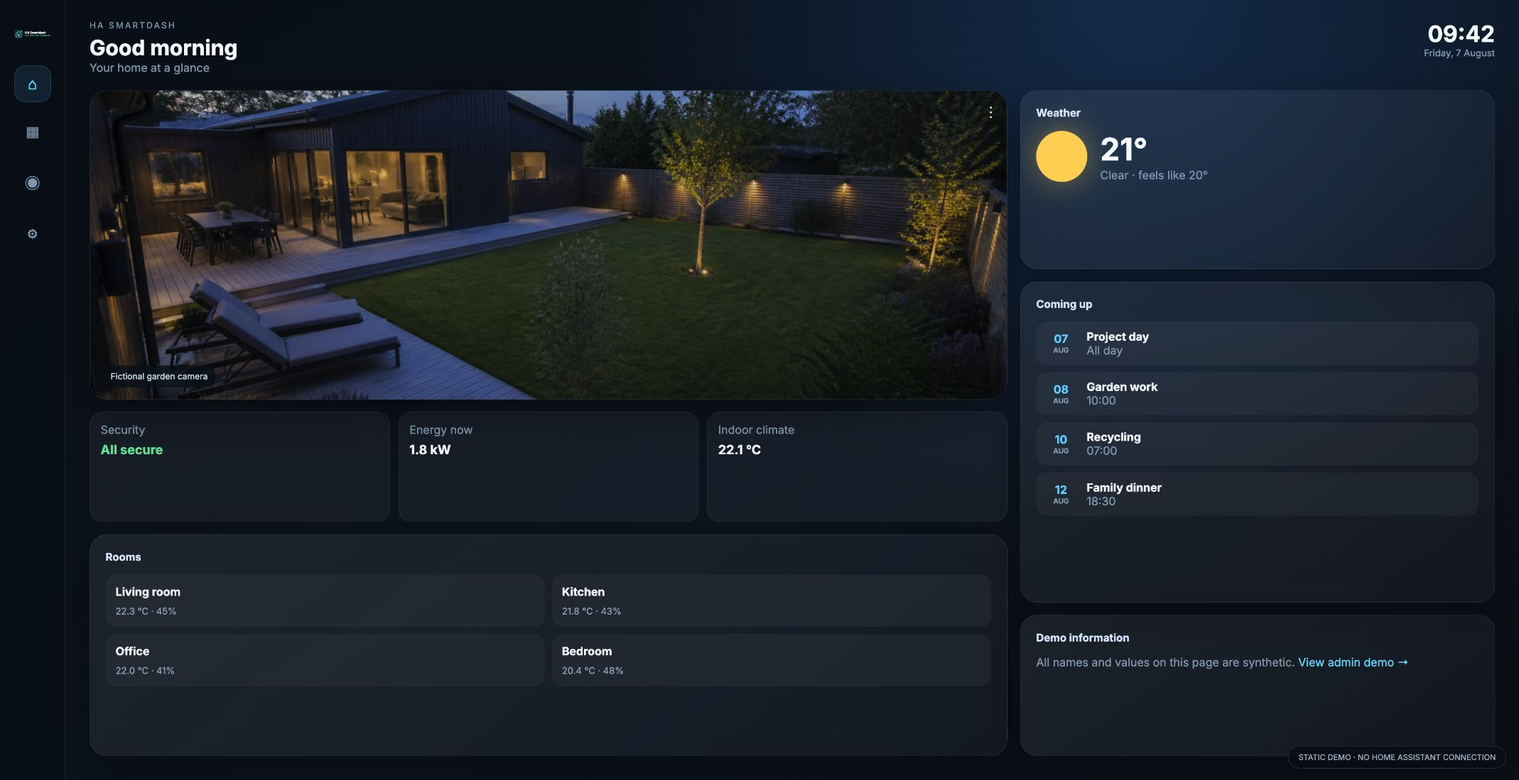
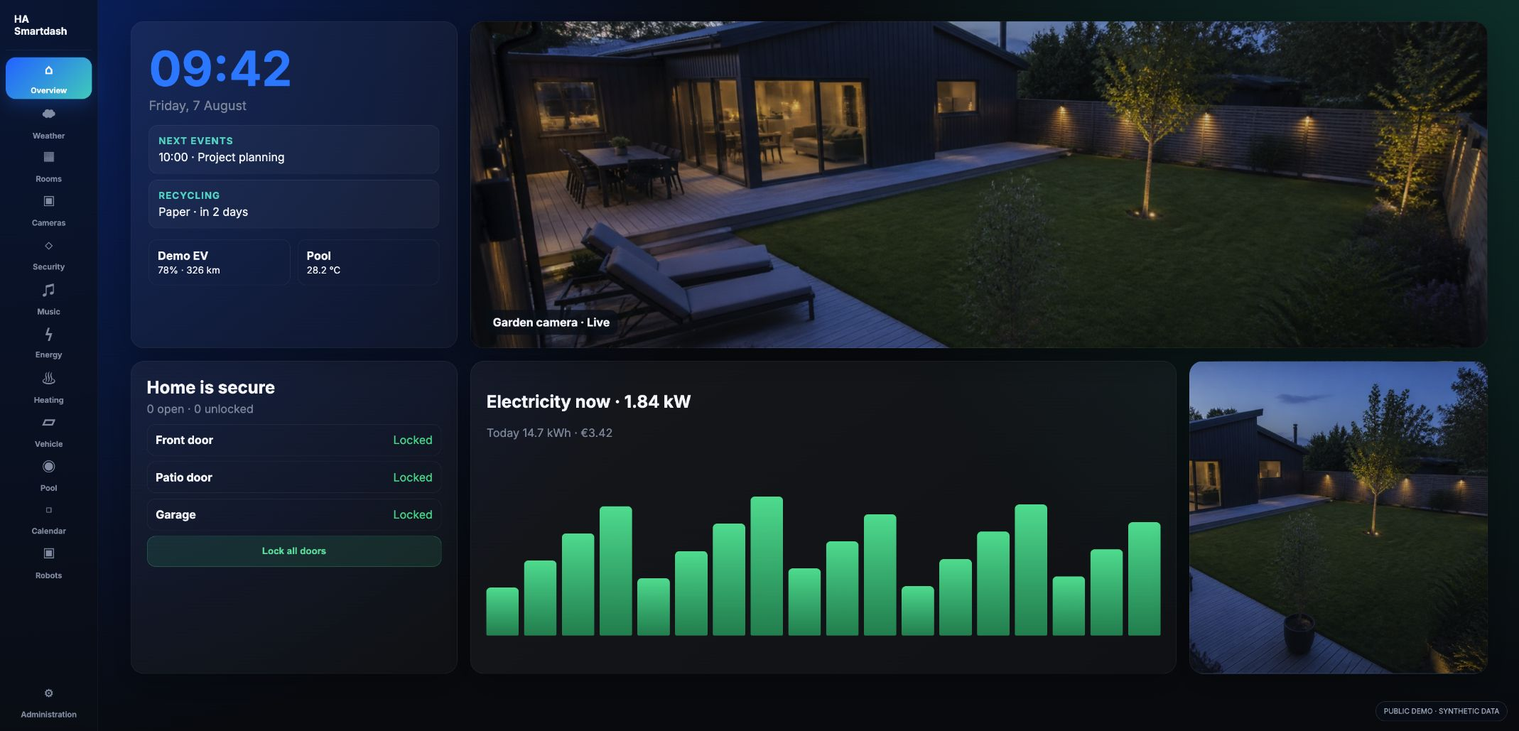
Add SMB backup downloads and production-style demos

diff --git a/demo/showcase.css b/demo/showcase.css
@@ -1,0 +1,1 @@
+@font-face{font-family:Inter;src:url(../fonts/Inter-Variable.woff2)}:root{--panel:#11151fcf;--line:#ffffff12;--muted:#8e98aa;--cyan:#32d8d0;--blue:#2882ff;--green:#42dc9d;--yellow:#ffc64f;--red:#ff4f7b}*{box-sizing:border-box}body{margin:0;background:radial-gradient(circle at 100% 0,#063b35 0,transparent 42%),radial-gradient(circle at 0 0,#082d72 0,transparent 45%),#070a10;color:#f6f8fc;font-family:Inter,sans-serif;min-height:100vh}.app{display:grid;grid-template-columns:138px 1fr;min-height:100vh}.rail{padding:18px 8px 12px;border-right:1px solid var(--line);background:#09101b99;display:flex;flex-direction:column}.brand{padding:0 12px 18px;border-bottom:1px solid var(--line);font-weight:800;font-size:14px}.rail nav{display:grid;gap:3px;margin-top:10px}.navbtn,.admin{min-height:59px;border:0;border-radius:14px;background:transparent;color:#929caf;display:grid;place-items:center;gap:3px;font:650 12px Inter;cursor:pointer}.navbtn i,.admin{font-style:normal;font-size:19px}.navbtn span,.admin span{font-size:11px}.navbtn.active{color:white;background:linear-gradient(135deg,#2c78ff,#38d3c6);box-shadow:0 8px 25px #2586ff44}.admin{margin-top:auto}main{min-width:0;padding:30px 44px 30px 46px}.view-title{margin:0 0 20px}.view-title small{color:#8793a6;letter-spacing:.16em}.view-title h1{margin:5px 0 0;font-size:20px}.card{border:1px solid var(--line);border-radius:19px;background:linear-gradient(145deg,#ffffff0d,#ffffff07);box-shadow:0 16px 45px #0004;overflow:hidden}.overview{display:grid;grid-template-columns:460px 1fr 420px;grid-template-rows:460px 440px;gap:18px}.clock-card{grid-row:1;padding:25px}.clock{font-size:68px;font-weight:760;color:#338cff}.date{color:var(--muted);font-size:18px;margin-bottom:17px}.mini{padding:13px;border:1px solid var(--line);border-radius:12px;background:#ffffff08;margin:9px 0}.mini small{display:block;color:#54d9cd;font-weight:750;letter-spacing:.08em;margin-bottom:5px}.quick{display:grid;grid-template-columns:1fr 1fr;gap:10px;margin-top:16px}.quick div{padding:12px;border:1px solid var(--line);border-radius:12px}.quick b{display:block}.camera-main{grid-column:2/4;position:relative;background:linear-gradient(#06101b22,#06101b55),url(assets/fictional-camera-garden.jpg) center/cover}.camera-main:after{content:"Garden camera · Live";position:absolute;left:20px;bottom:18px;padding:8px 11px;border-radius:10px;background:#07101ccc;font-weight:700}.security-card{padding:22px}.security-card h2{margin:0 0 6px}.security-card p{color:var(--muted);margin:0 0 12px}.lockrow{display:flex;justify-content:space-between;align-items:center;padding:12px;border:1px solid var(--line);border-radius:12px;margin:8px 0}.lockrow em{color:var(--green);font-style:normal}.lockall{width:100%;padding:13px;border:1px solid #39d69b55;border-radius:12px;background:#2ac58e24;color:#5fe0ac;font-weight:800}.energy-overview{padding:22px}.energy-overview .tabs{float:right}.price-chart{height:260px;display:flex;align-items:flex-end;gap:8px;padding-top:35px}.price-chart i{flex:1;border-radius:6px 6px 2px 2px;background:linear-gradient(#4cdfa2,#168e62)}.price-chart i.hot{background:linear-gradient(#ffca55,#d79620)}.side-camera{background:linear-gradient(#06101b22,#06101b66),url(assets/fictional-camera-garden.jpg) 72% center/cover}.rooms-grid{display:grid;grid-template-columns:repeat(6,1fr);gap:13px}.room{height:300px;position:relative;background-image:linear-gradient(transparent 45%,#05080ee8),url(assets/fictional-rooms-contact-sheet.jpg);background-size:300% 200%;border:1px solid #ffffff1b;border-radius:16px;overflow:hidden}.room:nth-child(1){background-position:0 0}.room:nth-child(2){background-position:50% 0}.room:nth-child(3){background-position:100% 0}.room:nth-child(4){background-position:0 100%}.room:nth-child(5){background-position:50% 100%}.room:nth-child(6){background-position:100% 100%}.room .metrics{position:absolute;left:9px;right:9px;top:9px;display:grid;grid-template-columns:1fr 1fr;gap:7px}.metricbox{padding:9px;border-radius:10px;background:#0a0d13dd}.metricbox b{font-size:19px}.metricbox small{display:block;color:#c4cad3;font-size:10px}.room>strong{position:absolute;left:13px;bottom:18px;font-size:15px}.energy-layout{display:grid;grid-template-columns:380px 1fr;gap:16px}.energy-stats{display:grid;gap:14px}.stat{padding:19px;border-left:3px solid var(--blue)}.stat.yellow{border-color:var(--yellow)}.stat.green{border-color:var(--green)}.stat small{color:var(--muted);letter-spacing:.08em}.stat strong{display:block;font-size:42px;margin:15px 0 5px}.energy-content{display:grid;gap:16px}.advice{padding:17px;color:#dce8fb}.graph-card{padding:20px}.graph-card h2{font-size:14px;color:#9ba5b5;letter-spacing:.07em}.hour-bars{height:290px;display:flex;align-items:flex-end;gap:5px}.hour-bars i{flex:1;border-radius:7px 7px 2px 2px;background:linear-gradient(#4cdfa2,#1da875)}.hour-bars i.mid{background:linear-gradient(#ffd05e,#d5a02c)}.hour-bars i.now{background:linear-gradient(#ff9f35,#ee681f);box-shadow:0 0 20px #ff912c66}.linegraph{height:230px}.linegraph svg{width:100%;height:100%}.weather-layout{display:grid;grid-template-columns:1.35fr .65fr;gap:17px}.radar{height:640px;padding:20px}.radar-map{height:570px;border-radius:15px;background:radial-gradient(circle at 62% 36%,#ffee4a 0 3%,#56dc79 4% 9%,#199add 10% 20%,transparent 21%),radial-gradient(circle at 33% 64%,#55d877 0 8%,#178fd0 9% 18%,transparent 19%),linear-gradient(135deg,#254859,#071b28);position:relative}.radar-map:after{content:"";position:absolute;inset:0;background:repeating-linear-gradient(0deg,transparent 0 54px,#ffffff0a 55px),repeating-linear-gradient(90deg,transparent 0 54px,#ffffff0a 55px)}.forecast{padding:22px}.weather-now{display:flex;align-items:center;gap:20px}.sun{width:75px;height:75px;border-radius:50%;background:#ffd45b;box-shadow:0 0 40px #ffd45b55}.weather-now strong{font-size:56px}.days{display:grid;grid-template-columns:repeat(2,1fr);gap:9px;margin-top:25px}.day{padding:15px;border-radius:13px;background:#ffffff09}.device-layout{display:grid;grid-template-columns:1.25fr .75fr;gap:17px}.pool-shape{height:410px;background:linear-gradient(#50ddfa,#0970ce);border:10px solid #dae8ee;border-radius:48% 48% 28% 28%/15% 15% 20% 20%;box-shadow:inset 0 0 40px #fff5;position:relative;overflow:hidden}.bubble{position:absolute;border:2px solid #fff8;border-radius:50%;animation:rise 4s infinite;bottom:-20px}.battery{height:210px;border:8px solid #ccdbe5;border-radius:32px;padding:11px;position:relative}.liquid{height:100%;width:78%;border-radius:18px;background:linear-gradient(90deg,#20d48a,#78f1bb);overflow:hidden}.robot-body{width:330px;height:330px;margin:45px auto;border-radius:50%;border:8px solid #35495c;background:radial-gradient(circle at 45% 36%,#394d60,#101820 68%);box-shadow:inset 0 0 0 2px #61ddff55,0 28px 55px #0008}.actions{display:grid;grid-template-columns:repeat(2,1fr);gap:10px}.action{padding:17px;border-radius:13px;background:#ffffff0b}.demo-note{position:fixed;right:16px;bottom:14px;padding:7px 11px;border:1px solid #ffffff24;border-radius:99px;background:#07101ddd;color:#aeb9c7;font-size:10px}@media(max-width:1100px){.app{grid-template-columns:82px 1fr}.brand{font-size:9px}.navbtn span,.admin span{display:none}main{padding:20px}.overview{grid-template-columns:1fr;grid-template-rows:auto}.clock-card,.camera-main,.security-card,.energy-overview,.side-camera{grid-column:auto;grid-row:auto;min-height:320px}.rooms-grid{grid-template-columns:repeat(3,1fr)}.energy-layout,.weather-layout,.device-layout{grid-template-columns:1fr}}

diff --git a/demo/showcase.js b/demo/showcase.js
@@ -1,0 +1,5 @@
+const navItems=[['overview','⌂','Overview'],['weather','☁','Weather'],['rooms','▦','Rooms'],['cameras','▣','Cameras'],['security','◇','Security'],['music','♫','Music'],['energy','ϟ','Energy'],['heating','♨','Heating'],['car','▱','Vehicle'],['pool','◉','Pool'],['calendar','□','Calendar'],['robot','▣','Robots']];
+const q=new URLSearchParams(location.search).get('view')||'overview';const nav=document.querySelector('#nav');nav.innerHTML=navItems.map(x=>`<button class="navbtn ${x[0]===q?'active':''}" onclick="location.search='?view=${x[0]}'"><i>${x[1]}</i><span>${x[2]}</span></button>`).join('');
+const bars=(n=24)=>Array.from({length:n},(_,i)=>`<i class="${i>5&&i<10?'mid':''} ${i===11?'now':''}" style="height:${30+((i*17)%62)}%"></i>`).join('');
+const views={overview:`<div class="overview"><section class="card clock-card"><div class="clock">09:42</div><div class="date">Friday, 7 August</div><div class="mini"><small>NEXT EVENTS</small>10:00 · Project planning</div><div class="mini"><small>RECYCLING</small>Paper · in 2 days</div><div class="quick"><div><b>Demo EV</b><small>78% · 326 km</small></div><div><b>Pool</b><small>28.2 °C</small></div></div></section><section class="card camera-main"></section><section class="card security-card"><h2>Home is secure</h2><p>0 open · 0 unlocked</p>${['Front door','Patio door','Garage'].map(x=>`<div class="lockrow"><b>${x}</b><em>Locked</em></div>`).join('')}<button class="lockall">Lock all doors</button></section><section class="card energy-overview"><h2>Electricity now · 1.84 kW</h2><p style="color:var(--muted)">Today 14.7 kWh · €3.42</p><div class="price-chart">${bars(18)}</div></section><section class="card side-camera"></section></div>`,rooms:`<div class="view-title"><small>ROOMS</small><h1>Climate, lights and openings</h1></div><div class="rooms-grid">${[['Living room','22.3°','45%'],['Kitchen','21.8°','43%'],['Dining room','22.0°','44%'],['Bedroom','20.4°','48%'],['Bathroom','23.1°','52%'],['Office','22.2°','41%'],['Guest room','21.0°','46%'],['Utility room','20.7°','49%'],['Workshop','19.8°','39%'],['Hallway','21.5°','44%'],['Terrace','17.4°','65%'],['Outside','16.9°','68%']].map((x,i)=>`<article class="room" style="background-position:${[0,50,100][i%3]}% ${i%6<3?0:100}%"><div class="metrics"><div class="metricbox"><b>${x[1]}</b><small>Temperature</small></div><div class="metricbox"><b>${x[2]}</b><small>Humidity</small></div></div><strong>${x[0]}</strong></article>`).join('')}</div>`,energy:`<div class="view-title"><small>ENERGY</small><h1>Consumption and prices</h1></div><div class="energy-layout"><aside class="energy-stats">${[['CONSUMPTION NOW','1.84','kW',''],['PRICE NOW','0.94','€/kWh','yellow'],['TODAY','14.7','kWh','green'],['COST TODAY','3.42','€','green']].map(x=>`<div class="card stat ${x[3]}"><small>${x[0]}</small><strong>${x[1]} <small>${x[2]}</small></strong><span>Normal usage</span></div>`).join('')}</aside><div class="energy-content"><div class="card advice">⚡ Best time for larger loads: 12:00–15:00</div><div class="card graph-card"><h2>HOURLY ELECTRICITY PRICE</h2><div class="hour-bars">${bars()}</div></div><div class="card graph-card"><h2>CONSUMPTION · LAST 24 HOURS</h2><div class="linegraph"><svg viewBox="0 0 1000 220" preserveAspectRatio="none"><path d="M0 145 C80 120 110 168 180 130 S260 150 330 76 S430 120 510 95 S630 130 710 88 S830 120 1000 55" fill="none" stroke="#73baff" stroke-width="5"/><path d="M0 220 L0 145 C80 120 110 168 180 130 S260 150 330 76 S430 120 510 95 S630 130 710 88 S830 120 1000 55 L1000 220Z" fill="#388dff22"/></svg></div></div></div></div>`,weather:`<div class="view-title"><small>WEATHER</small><h1>Forecast and radar</h1></div><div class="weather-layout"><div class="card radar"><h2>Precipitation radar</h2><div class="radar-map"></div></div><div class="card forecast"><div class="weather-now"><div class="sun"></div><div><strong>21°</strong><p>Clear · feels like 20°</p></div></div><p style="color:var(--muted)">Wind 3.2 m/s · Humidity 58% · UV 4</p><div class="days">${['Friday','Saturday','Sunday','Monday','Tuesday','Wednesday'].map((d,i)=>`<div class="day"><b>${d}</b><p>☀ ${21+i%3}°</p><small>Low ${13+i%2}°</small></div>`).join('')}</div></div></div>`,pool:`<div class="view-title"><small>POOL</small><h1>Water and safety</h1></div><div class="device-layout"><div class="card" style="padding:24px"><h2>Pool status</h2><div class="pool-shape">${[12,26,39,52,68,81].map((x,i)=>`<i class="bubble" style="left:${x}%;width:${12+i%3*5}px;height:${12+i%3*5}px;animation-delay:-${i/2}s"></i>`).join('')}</div><h1>28.2 °C</h1><p style="color:var(--green)">No person detected · Pump running</p></div><div class="card" style="padding:24px"><h2>Pool controls</h2><div class="actions"><div class="action"><b>Pump</b><p>Running</p></div><div class="action"><b>Daily runtime</b><p>4 h 12 min</p></div><div class="action"><b>Automation</b><p>Enabled</p></div><div class="action"><b>After-swim</b><p>Ready</p></div></div></div></div>`,car:`<div class="view-title"><small>VEHICLE</small><h1>Demo EV</h1></div><div class="device-layout"><div class="card" style="padding:24px"><h2>Battery</h2><div class="battery"><div class="liquid"></div></div><h1>78%</h1><p style="color:var(--green)">Charging · 48 minutes remaining</p></div><div class="card" style="padding:24px"><h2>Vehicle status</h2><div class="actions"><div class="action"><b>Range</b><p>326 km</p></div><div class="action"><b>Lock</b><p>Locked</p></div><div class="action"><b>Inside</b><p>21.5 °C</p></div><div class="action"><b>Charge power</b><p>11 kW</p></div></div></div></div>`,robot:`<div class="view-title"><small>ROBOTS</small><h1>Device-driven controls</h1></div><div class="device-layout"><div class="card"><div class="robot-body"></div></div><div class="card" style="padding:24px"><small style="color:var(--muted)">SELECTED DEVICE</small><h1>Ground floor robot</h1><p style="color:var(--green)">Docked · 92%</p><div class="actions"><div class="action"><b>▶ Start</b><p>Full clean</p></div><div class="action"><b>⌂ Dock</b><p>Return home</p></div><div class="action"><b>Ⅱ Pause</b><p>Current task</p></div><div class="action"><b>◎ Locate</b><p>Play sound</p></div></div></div></div>`};
+document.querySelector('#main').innerHTML=views[q]||views.overview;document.title=`HA Smartdash — ${q} public demo`;

diff --git a/admin/admin.js b/admin/admin.js
@@ -815,10 +815,12 @@
       <div class="admin-card"><div class="admin-card-head"><div><h2>Denne skærm</h2><p>Separat kopi af lokale valg til netop denne browser eller kiosk.</p></div></div>
         <div class="admin-backup-tools"><div><button type="button" data-export-local>Eksportér lokale skærmvalg</button></div></div>
       </div>
-      <div class="admin-card"><div class="admin-card-head"><div><h2>Automatisk backup</h2><p>Kan gemme centralkonfigurationen lokalt eller på en SMB-share, der er monteret på serveren under <code>/config/backup-targets</code>.</p></div></div>
+      <div class="admin-card"><div class="admin-card-head"><div><h2>Automatisk backup og SMB</h2><p>Gem lokalt eller på en SMB-share, som værten har monteret under <code>/config/backup-targets/&lt;navn&gt;</code>. Skrivbare shares dukker automatisk op under Placering; SMB-brugernavn og adgangskode gemmes aldrig i dashboardet.</p></div></div>
         <div class="admin-grid"><label class="admin-field"><span>Automatisk backup</span><select id="adminBackupEnabled"><option value="0">Fra</option><option value="1">Til</option></select></label><label class="admin-field"><span>Interval</span><select id="adminBackupFrequency"><option value="daily">Dagligt</option><option value="weekly">Ugentligt</option></select></label><label class="admin-field"><span>Placering</span><select id="adminBackupTarget"><option value="local">Lokal backupmappe</option></select></label></div>
         <div class="admin-actions"><button class="admin-save" type="button" data-save-backup>Gem auto-backup</button><button type="button" data-run-backup>Lav backup nu</button><span class="admin-save-state" data-backup-state>Henter status…</span></div>
       </div>
+      <div class="admin-card"><div class="admin-card-head"><div><h2>Gemte backups</h2><p>Backups fra både den lokale mappe og monterede SMB-shares kan hentes direkte herfra.</p></div><button type="button" class="beast-btn" data-reload-backups>Opdatér liste</button></div><div class="admin-backup-list" id="adminBackupList"><p class="admin-empty">Henter backups…</p></div></div>
+      <div class="admin-card admin-smb-help"><div class="admin-card-head"><div><h2>Sådan tilføjes en SMB-share</h2><p>Montér netværksdrevet på serveren eller som et Docker-bind mount. Eksempel: <code>//NAS/Smartdash</code> → <code>/config/backup-targets/nas</code>. Genåbn derefter denne fane.</p></div></div><p>Det holder netværkslogin uden for browseren og gør backup kompatibel med Unraid, Docker og almindelig Linux. Den fulde vejledning findes i <code>deploy/SMB-BACKUP.md</code>.</p></div>
     </section>`;
   }
 
@@ -847,6 +849,12 @@
       document.getElementById("adminBackupFrequency").value = settings.frequency || "daily";
       target.value = settings.target || "local";
       state.textContent = settings.lastBackup ? `Seneste: ${new Date(settings.lastBackup).toLocaleString("da-DK")}` : "Ingen serverbackup endnu";
+      const list = document.getElementById("adminBackupList");
+      if (list) list.innerHTML = (payload.backups || []).length ? payload.backups.map((item) => {
+        const size = item.size < 1024 ? `${item.size} B` : item.size < 1048576 ? `${Math.round(item.size / 1024)} KB` : `${(item.size / 1048576).toFixed(1)} MB`;
+        const url = `/api/backup.php?action=download&target=${encodeURIComponent(item.target)}&file=${encodeURIComponent(item.filename)}`;
+        return `<article><div><strong>${escapeHtml(item.filename)}</strong><span>${escapeHtml(item.targetLabel)} · ${escapeHtml(new Date(item.createdAt).toLocaleString("da-DK"))} · ${size}</span></div><a class="admin-save" href="${url}" download>Hent</a></article>`;
+      }).join("") : `<p class="admin-empty">Der er ikke lavet nogen serverbackups endnu.</p>`;
     } catch (error) { state.textContent = "Backup-backend kunne ikke læses"; }
   }
 
@@ -992,6 +1000,7 @@
       window.scrollTo({ top: 0, behavior: "smooth" });
     }));
     if (activeView === "backup") loadBackupSettings();
+    document.querySelector("[data-reload-backups]")?.addEventListener("click", loadBackupSettings);
     document.querySelector("[data-refresh-browser]")?.addEventListener("click", () => window.location.reload());
     document.querySelectorAll("[data-filter-select]").forEach((input) => input.addEventListener("input", () => {
       const select = document.getElementById(input.dataset.filterSelect);

diff --git a/admin/admin.css b/admin/admin.css
@@ -96,6 +96,14 @@ button { cursor: pointer; }
 .admin-audit p { margin: 8px 0 0; padding: 8px 10px; border-radius: 8px; font-size: 12px; }
 .admin-audit .is-error { color: var(--danger); background: var(--danger-soft); }.admin-audit .is-warning { color: var(--warning); background: var(--warning-soft); }.admin-audit .is-ok { color: var(--success); background: var(--success-soft); }
 .admin-backup-tools > div { display: flex; flex-wrap: wrap; gap: 8px; margin-top: 10px; }.admin-backup-tools button,.admin-backup-tools label { min-height: 40px; display: inline-flex; align-items: center; padding: 0 12px; border: 1px solid var(--border-strong); border-radius: 9px; background: var(--surface-2); color: var(--ink); font-weight: 700; }.admin-backup-tools input { display: none; }.admin-backup-tools small { display: block; margin-top: 9px; color: var(--ink-muted); }
+.admin-backup-list { display: grid; gap: 10px; }
+.admin-backup-list article { display: flex; align-items: center; justify-content: space-between; gap: 18px; padding: 14px 16px; border: 1px solid var(--border); border-radius: 13px; background: #090c10; }
+.admin-backup-list article div { min-width: 0; display: grid; gap: 5px; }
+.admin-backup-list article strong { overflow: hidden; text-overflow: ellipsis; white-space: nowrap; }
+.admin-backup-list article span { color: var(--ink-muted); font-size: 12px; }
+.admin-backup-list article a { flex: 0 0 auto; display: inline-flex; align-items: center; justify-content: center; text-decoration: none; }
+.admin-smb-help { background: radial-gradient(circle at 100% 0, rgba(78,142,240,.10), transparent 35%), var(--surface-2); }
+.admin-smb-help > p { margin: 0; color: var(--ink-muted); line-height: 1.55; }
 .admin-overview-card-row { display:grid; gap:12px; padding:16px; }
 .admin-overview-row-head { display:flex; align-items:center; justify-content:space-between; gap:12px; }
 .admin-overview-row-head > div { display:flex; gap:7px; }
@@ -151,5 +159,6 @@ button { cursor: pointer; }
   .admin-entity-device-scope small { grid-column: auto; }
   .admin-project-heading,.admin-project-grid { grid-template-columns:1fr; }
   .admin-project-heading img { max-width:260px; }
+  .admin-backup-list article { align-items: flex-start; flex-direction: column; }
   .admin-security-recovery, .admin-security-toggle { align-items: flex-start; flex-direction: column; }
 }

diff --git a/admin/index.html b/admin/index.html
@@ -10,7 +10,7 @@
   <link rel="stylesheet" href="/css/beast-tokens.css?v=12">
   <link rel="stylesheet" href="/css/beast-misc.css?v=54">
   <link rel="stylesheet" href="/css/beast-screenlock.css?v=3">
-  <link rel="stylesheet" href="./admin.css?v=17">
+  <link rel="stylesheet" href="./admin.css?v=18">
   <script src="/js/beast-theme.js?v=6"></script>
   <script src="/js/ha-smartdash-i18n.js?v=1"></script>
 </head>
@@ -24,6 +24,6 @@
   <script src="/js/beast-config.js?v=12"></script>
   <script src="/js/beast-entity-picker.js?v=1"></script>
   <script src="/js/beast-screenlock.js?v=7"></script>
-  <script src="./admin.js?v=48"></script>
+  <script src="./admin.js?v=49"></script>
 </body>
 </html>

diff --git a/demo/showcase.html b/demo/showcase.html
@@ -1,0 +1,1 @@
+<!doctype html><html lang="en"><head><meta charset="utf-8"><meta name="viewport" content="width=device-width,initial-scale=1"><title>HA Smartdash — public showcase</title><link rel="icon" href="../favicon.svg"><link rel="stylesheet" href="showcase.css"></head><body><div class="app"><aside class="rail"><div class="brand">HA Smartdash</div><nav id="nav"></nav><div class="admin">⚙<span>Administration</span></div></aside><main id="main"></main></div><div class="demo-note">PUBLIC DEMO · SYNTHETIC DATA</div><script src="showcase.js"></script></body></html>

diff --git a/api/backup.php b/api/backup.php
@@ -33,10 +33,44 @@ function resolveTarget($id, $targets) {
   return $targets[0];
 }
 
+function backupFiles($targets) {
+  $items = [];
+  foreach ($targets as $target) {
+    foreach (glob($target["path"] . "/ha-smartdash-profile-*.json") ?: [] as $file) {
+      if (!is_file($file)) continue;
+      $items[] = [
+        "target" => $target["id"], "targetLabel" => $target["label"],
+        "filename" => basename($file), "size" => filesize($file) ?: 0,
+        "createdAt" => gmdate("c", filemtime($file) ?: time())
+      ];
+    }
+  }
+  usort($items, function ($a, $b) { return strcmp($b["createdAt"], $a["createdAt"]); });
+  return array_slice($items, 0, 100);
+}
+
+function streamBackup($target, $filename) {
+  if (!preg_match('/^ha-smartdash-profile-[0-9]{4}-[0-9]{2}-[0-9]{2}-[0-9]{6}\.json$/', $filename)) return false;
+  $base = realpath($target["path"]);
+  $file = realpath($target["path"] . "/" . $filename);
+  if (!$base || !$file || dirname($file) !== $base || !is_file($file) || !is_readable($file)) return false;
+  header_remove("Content-Type");
+  header("Content-Type: application/json; charset=utf-8");
+  header("Content-Disposition: attachment; filename=\"" . basename($file) . "\"");
+  header("Content-Length: " . filesize($file));
+  readfile($file);
+  return true;
+}
+
 $settings = backupSettings($settingsFile);
 $targets = backupTargets($localRoot, $mountRoot);
 if ($_SERVER["REQUEST_METHOD"] === "GET") {
-  echo json_encode(["settings" => $settings, "targets" => array_map(function ($item) { unset($item["path"]); return $item; }, $targets)]);
+  if (($_GET["action"] ?? "") === "download") {
+    $target = resolveTarget((string)($_GET["target"] ?? "local"), $targets);
+    if (streamBackup($target, basename((string)($_GET["file"] ?? "")))) exit;
+    http_response_code(404); echo json_encode(["error" => "backup_not_found"]); exit;
+  }
+  echo json_encode(["settings" => $settings, "targets" => array_map(function ($item) { unset($item["path"]); return $item; }, $targets), "backups" => backupFiles($targets)]);
   exit;
 }
 if ($_SERVER["REQUEST_METHOD"] !== "POST") { http_response_code(405); echo json_encode(["error" => "method_not_allowed"]); exit; }

diff --git a/README.md b/README.md
@@ -15,7 +15,7 @@ On many kiosk computers and tablets, HA Smartdash can feel faster and use fewer 
 
 ## Screenshot gallery
 
-All screenshots use synthetic values and fictional entities. The camera image was generated specifically for this repository and depicts no real home.
+These screenshots mirror the production dashboard's layout, card proportions and navigation. All values, entity names and rooms are synthetic, and every camera/room image was generated specifically for this repository; no private Home Assistant data or real home is shown.
 
 | Rooms | Energy |
 | --- | --- |
@@ -25,7 +25,9 @@ All screenshots use synthetic values and fictional entities. The camera image wa
 | --- | --- |
 | ![Weather demo](docs/screenshots/weather.png) | ![Robot demo](docs/screenshots/robot.png) |
 
-![Pool and electric vehicle demo](docs/screenshots/pool.png)
+| Pool | Electric vehicle |
+| --- | --- |
+| ![Pool demo](docs/screenshots/pool.png) | ![Electric vehicle demo](docs/screenshots/car.png) |
 
 ## Highlights
 
@@ -41,7 +43,7 @@ All screenshots use synthetic values and fictional entities. The camera image wa
 - Danish and English interface selector
 - No analytics, telemetry or required cloud service
 
-The included [static demo](demo/index.html) contains synthetic data and never connects to Home Assistant.
+The included [production-style showcase](demo/showcase.html) reproduces the dashboard layout with synthetic data and never connects to Home Assistant. A simpler [static demo](demo/index.html) is also included.
 
 ## Requirements
 
@@ -83,6 +85,8 @@ Older `beast-profile` and `beast-central` profile files can also be imported.
 ## Automatic backup and SMB
 
 HA Smartdash does not mount network shares or store SMB credentials. Mount the share on the host under `/config/backup-targets/<name>`. Writable subdirectories appear as backup destinations in the admin panel. Scheduling is triggered by dashboard activity, so it is a convenience backup rather than a guaranteed server cron job.
+
+Existing local and SMB backups are listed in the admin panel and can be downloaded directly. See the complete [SMB backup setup guide](deploy/SMB-BACKUP.md).
 
 ## Security and privacy
 

diff --git a/README.da.md b/README.da.md
@@ -4,6 +4,26 @@ HA Smartdash er et responsivt, konfigurationsdrevet kiosk-dashboard til Home Ass
 
 På mange kiosk-pc’er og tablets vil HA Smartdash opleves hurtigere og bruge færre ressourcer end Home Assistants fulde brugerflade. Det skyldes blandt andet, at dashboardet er fokuseret på kioskvisning, henter entity-listen én gang pr. sideåbning, cacher den lokalt og undgår unødvendige genindlæsninger. Den konkrete forskel afhænger af enheden, browseren, kameraerne, de aktiverede sider og HA-integrationerne.
 
+## Skærmbilleder
+
+Skærmbillederne følger produktionsdashboardets layout, kortstørrelser og navigation. Alle værdier, entity-navne og rum er syntetiske, og samtlige kamera- og rumbilleder er genereret til dette repository; ingen private Home Assistant-data eller virkelige hjem vises.
+
+![Neutral forside-demo](docs/screenshots/overview.png)
+
+| Rum | Energi |
+| --- | --- |
+| ![Rum-demo](docs/screenshots/rooms.png) | ![Energi-demo](docs/screenshots/energy.png) |
+
+| Vejr | Robot |
+| --- | --- |
+| ![Vejr-demo](docs/screenshots/weather.png) | ![Robot-demo](docs/screenshots/robot.png) |
+
+| Pool | Elbil |
+| --- | --- |
+| ![Pool-demo](docs/screenshots/pool.png) | ![Elbil-demo](docs/screenshots/car.png) |
+
+Den [produktionslignende showcase](demo/showcase.html) gengiver dashboardets layout med syntetiske data og forbinder aldrig til Home Assistant.
+
 ## Hurtig installation
 
 1. Hent projektet og læg indholdet i webserverens rodmappe.
@@ -26,6 +46,8 @@ Forsidebyggeren er gitterbaseret: kort kan tilføjes, fjernes, flyttes og få re
 ## Backup og opdatering
 
 Eksportér profilen under **Admin → Backup & gendannelse**, før programfiler udskiftes. Bevar `data/config.json`, eller importér profilen igen efter opdateringen. En SMB-share skal monteres af værten under `/config/backup-targets/<navn>`; HA Smartdash gemmer ikke SMB-login.
+
+Lokale backups og backups på monterede SMB-shares vises i adminpanelet og kan hentes direkte. Se [SMB-vejledningen](deploy/SMB-BACKUP.md) for Linux, Docker og Unraid.
 
 ## Privatliv og ansvar
 

diff --git a/deploy/SMB-BACKUP.md b/deploy/SMB-BACKUP.md
@@ -1,0 +1,55 @@
+# SMB backup setup
+
+HA Smartdash uses server-mounted SMB shares. The dashboard never receives or stores the SMB password.
+
+## Required mapping
+
+Mount each writable share below:
+
+```text
+/config/backup-targets/<name>
+```
+
+Example:
+
+```text
+//nas/Smartdash  →  /config/backup-targets/nas
+```
+
+After mounting it, reopen **Admin → Backup & restore**. The share appears automatically in the backup destination list.
+
+## Linux example
+
+Install CIFS support and create a credentials file readable only by root:
+
+```text
+/etc/ha-smartdash-smb.credentials
+username=YOUR_USER
+password=YOUR_PASSWORD
+```
+
+Example `/etc/fstab` entry:
+
+```fstab
+//NAS_HOST/Smartdash /config/backup-targets/nas cifs credentials=/etc/ha-smartdash-smb.credentials,uid=WEB_UID,gid=WEB_GID,file_mode=0660,dir_mode=0770,vers=3.0,_netdev,nofail 0 0
+```
+
+Replace the host, share, UID and GID. Then create the mountpoint and mount it using your operating system's normal administration tools.
+
+## Docker or Unraid
+
+Mount the SMB share on the Docker host first. Add that host directory to the HA Smartdash/nginx container as a read-write path below `/config/backup-targets/<name>`.
+
+Example mapping:
+
+```text
+Host:      /mnt/remotes/nas_smartdash
+Container: /config/backup-targets/nas
+Mode:      read/write
+```
+
+## Verification
+
+The PHP/web-server user must be able to create and read files in the mounted directory. HA Smartdash only lists writable mountpoints and never exposes their server filesystem paths through the API.
+
+Backups can be created, listed and downloaded from the admin panel. Treat downloaded profiles as private because they may contain entity IDs and household structure.
